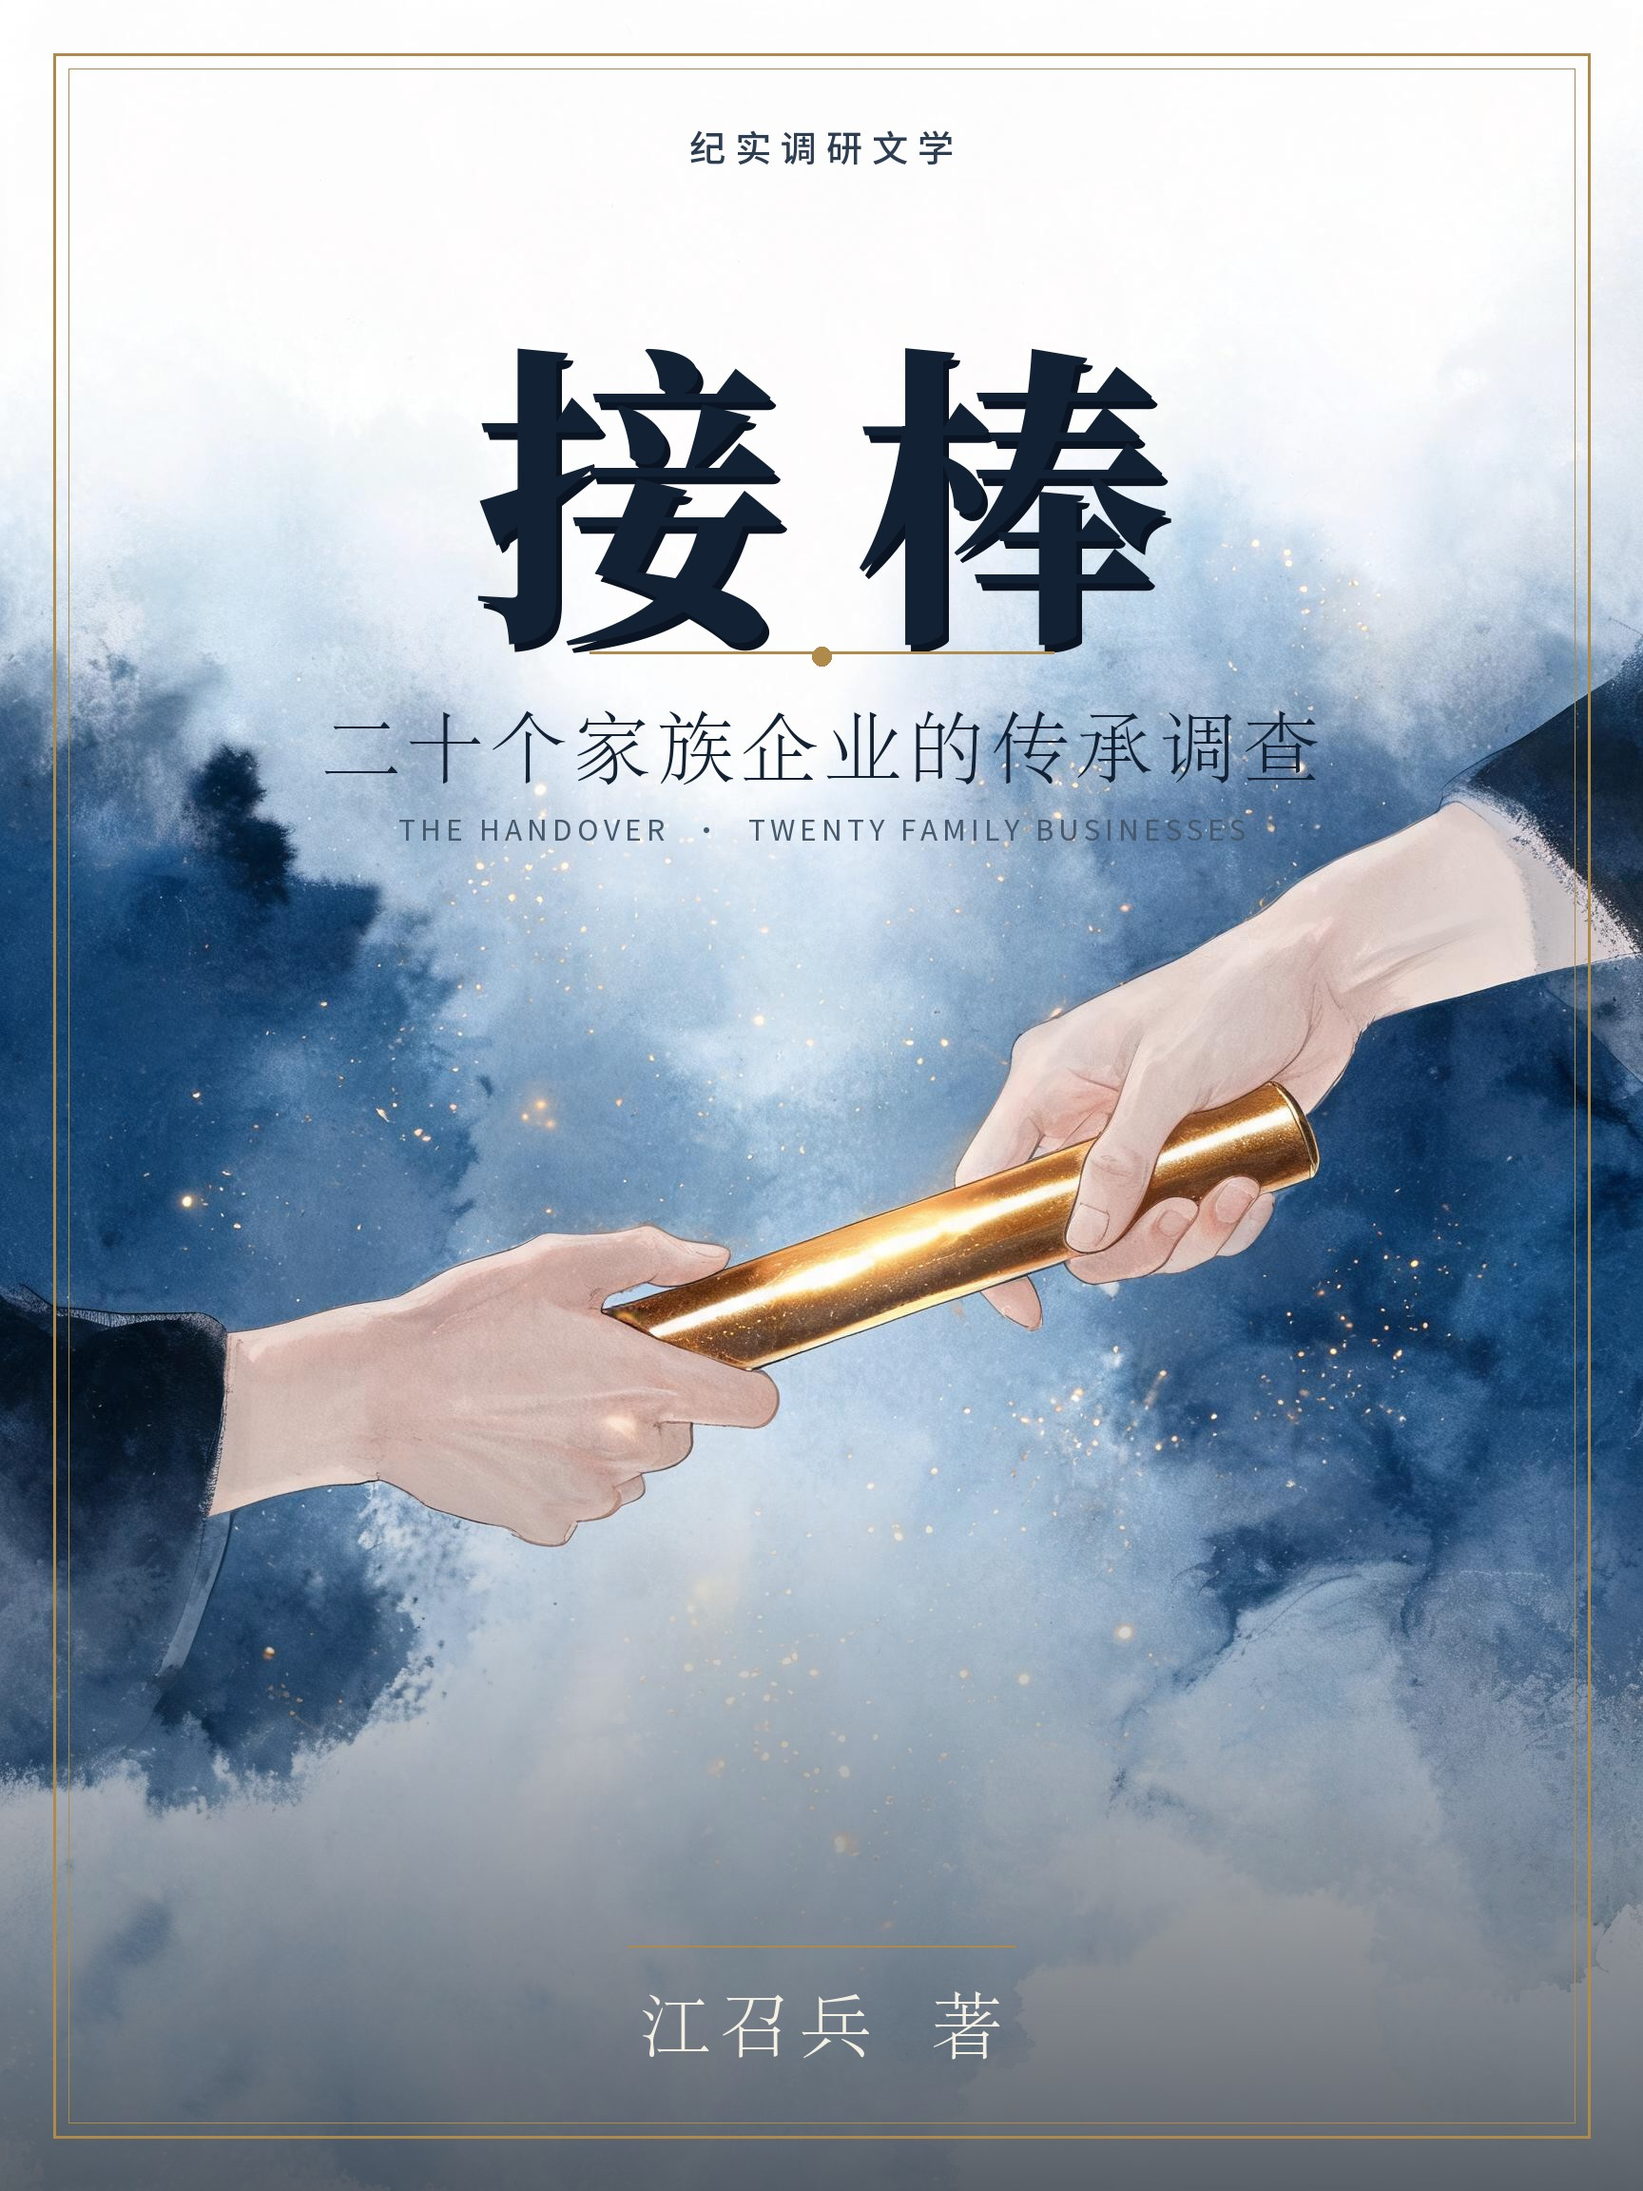
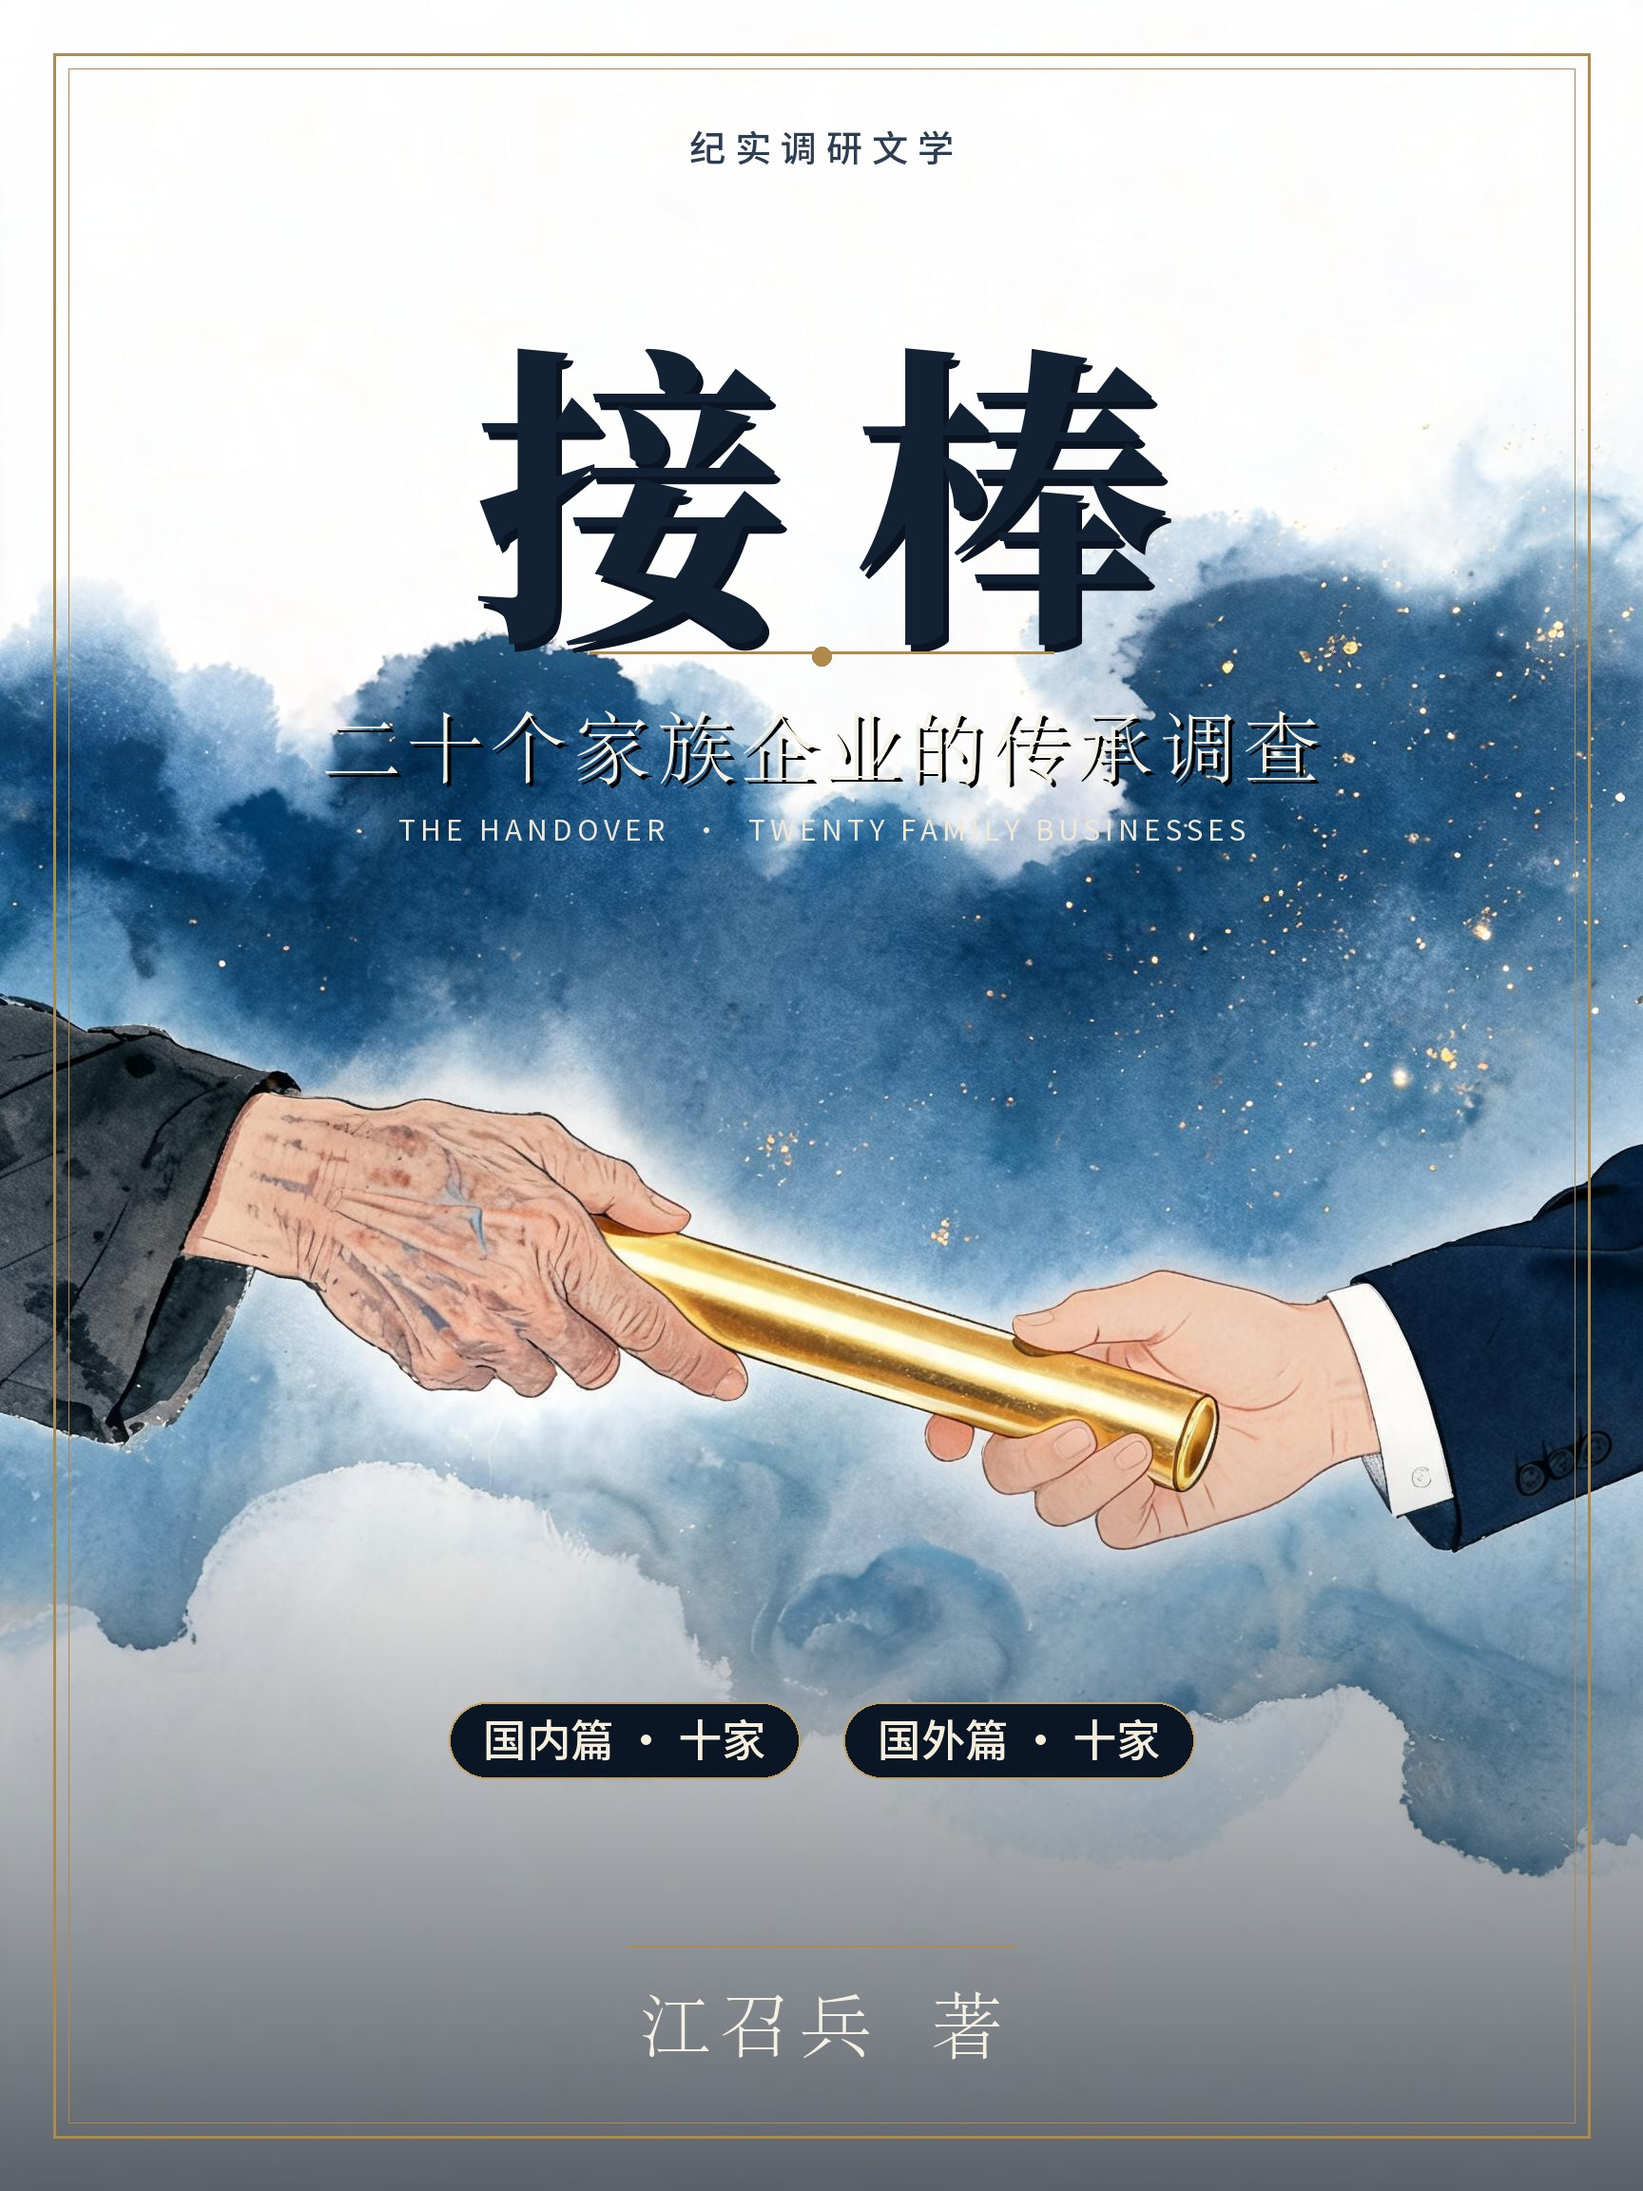
Update The Handover cover: old vs young hands and domestic/international edition labels

diff --git a/books/jie-bang/index.html b/books/jie-bang/index.html
@@ -72,7 +72,7 @@ footer b{color:var(--sub);font-weight:600}
 <meta property="og:url" content="https://ZhaobingJiang.github.io/books/jie-bang/">
 <meta property="og:title" content="接棒：二十个家族企业的传承调查">
 <meta property="og:description" content="十家中国大陆家族企业与十家国际家族企业的接班调查：交接现场、第一场硬仗、代价与机制。基于公开资料的纪实调研文学。">
-<meta property="og:image" content="https://ZhaobingJiang.github.io/books/jie-bang/cover.jpg?v=1">
+<meta property="og:image" content="https://ZhaobingJiang.github.io/books/jie-bang/cover.jpg?v=2">
 <meta name="twitter:card" content="summary_large_image">
 </head>
 <header class="site-header">

diff --git a/zh/books.html b/zh/books.html
@@ -739,7 +739,7 @@
 
 <article class="book-card" id="book-21">
           <figure class="book-figure">
-            <img src="../books/jie-bang/cover.jpg?v=1" alt="《接棒：二十个家族企业的传承调查》封面" width="640" height="960">
+            <img src="../books/jie-bang/cover.jpg?v=2" alt="《接棒：二十个家族企业的传承调查》封面" width="640" height="960">
             <figcaption>2026 &middot; 二十章 &middot; 正文约二十万字</figcaption>
           </figure>
           <div class="book-body">

diff --git a/books/index.html b/books/index.html
@@ -739,7 +739,7 @@
 
 <article class="book-card" id="book-21">
           <figure class="book-figure">
-            <img src="./jie-bang/cover.jpg?v=1" alt="Cover of The Handover" width="640" height="960">
+            <img src="./jie-bang/cover.jpg?v=2" alt="Cover of The Handover" width="640" height="960">
             <figcaption>Complete &middot; Twenty chapters &middot; About 200,000 Chinese characters</figcaption>
           </figure>
           <div class="book-body">
